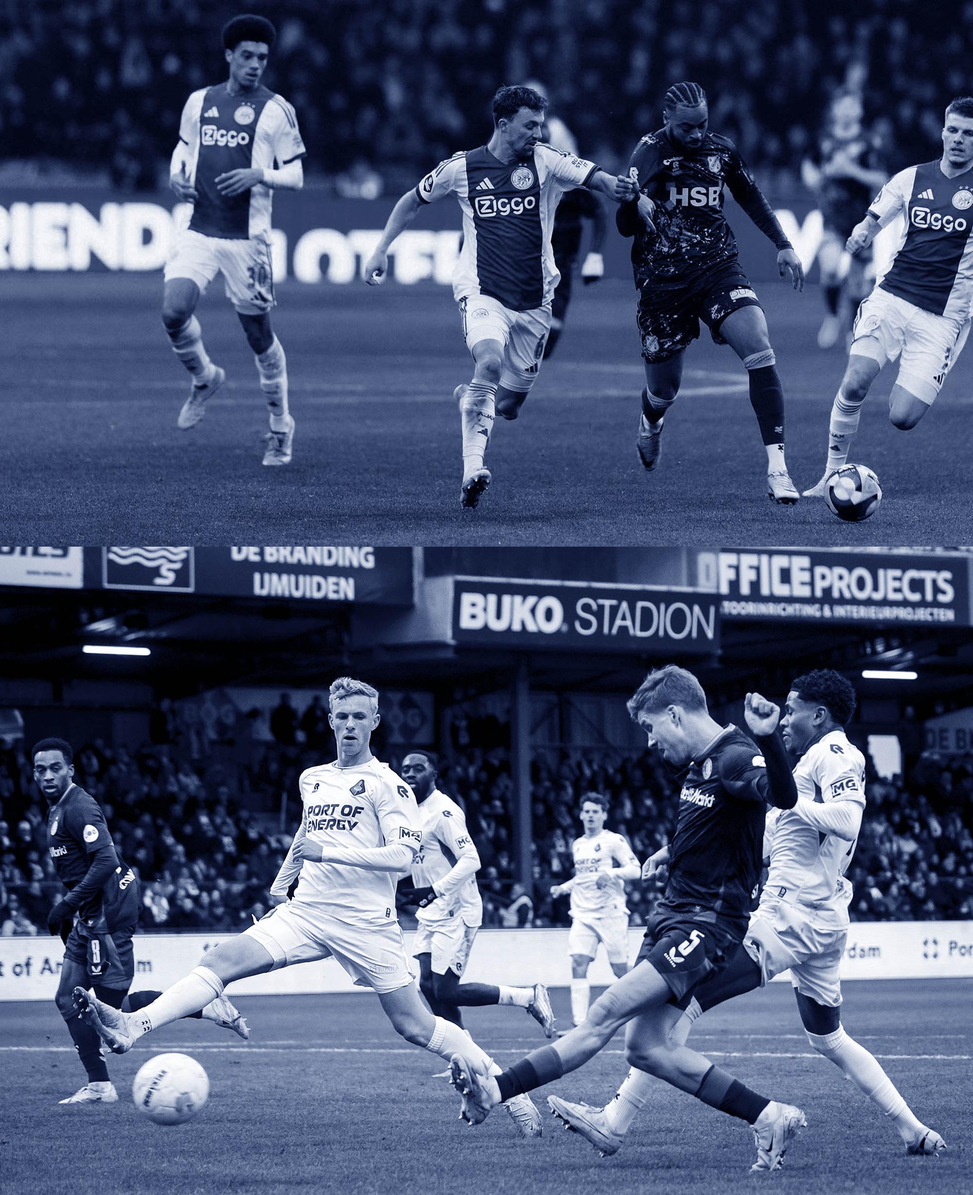
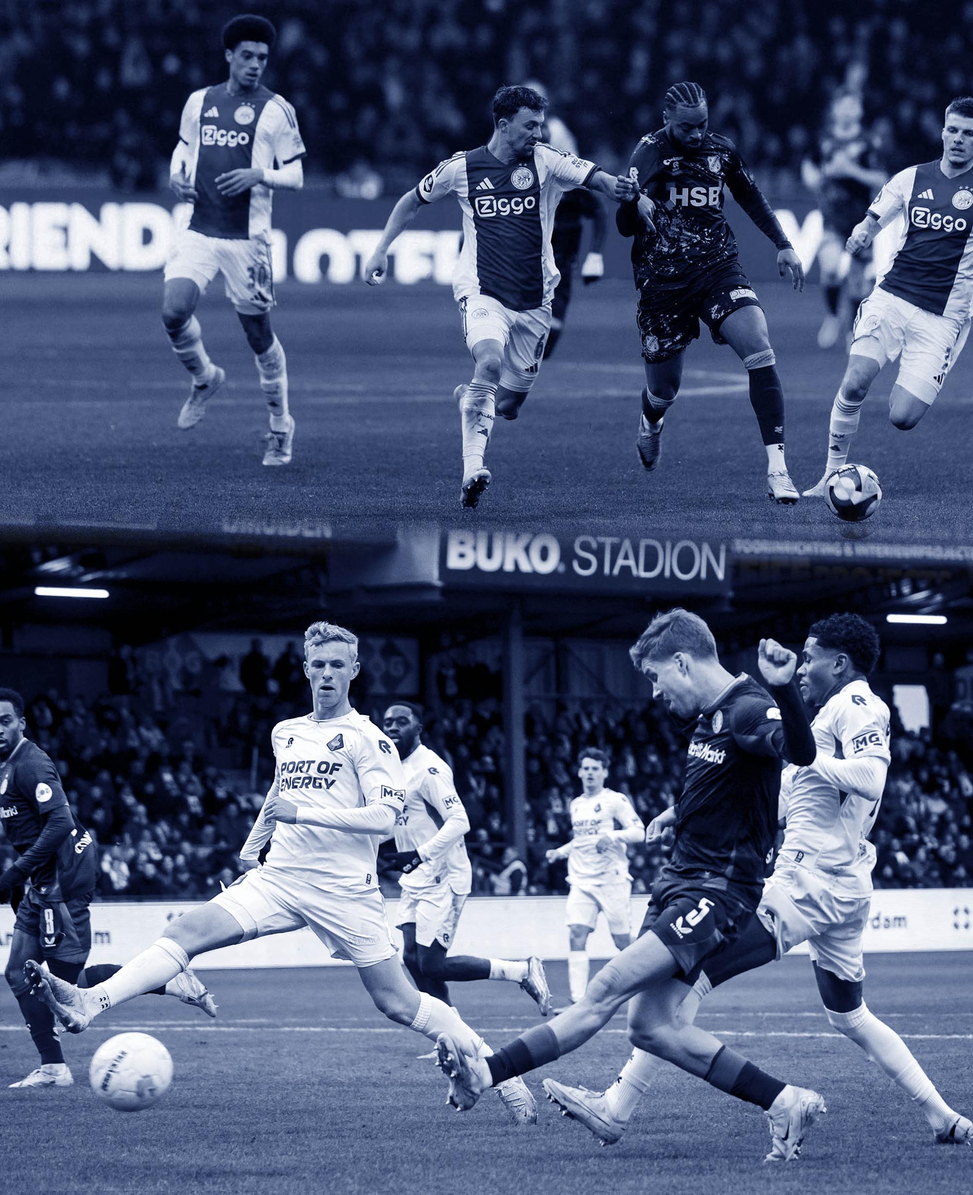
Update bg image position

diff --git a/styles/Home.module.css b/styles/Home.module.css
@@ -353,8 +353,8 @@
     rgba(0, 18, 31, 1) 100%
   ), url("/home/bg_body_4.jpg");
   background-repeat: no-repeat;
-  background-size: 100% 100%;
-  background-position: center;
+  background-size: cover;
+  background-position: left;
   z-index: 5;
 }
 

diff --git a/styles/AllMatches.module.css b/styles/AllMatches.module.css
@@ -12,7 +12,7 @@
     rgba(0, 18, 31, 1) 100%
   ), url("/home/bg_body_recent.jpg");
   background-repeat: no-repeat;
-  background-size: 100% 100%;
+  background-size: cover;
   background-position: center;
   z-index: 5;
 }

diff --git a/styles/ClubInfo.module.css b/styles/ClubInfo.module.css
@@ -16,7 +16,7 @@
     rgba(0, 18, 31, 1) 100%
   ), url("/home/bg_body_clubs.jpg");
   background-repeat: repeat;
-  background-size: contain;
+  background-size: center;
   background-position: top;
 }
 
